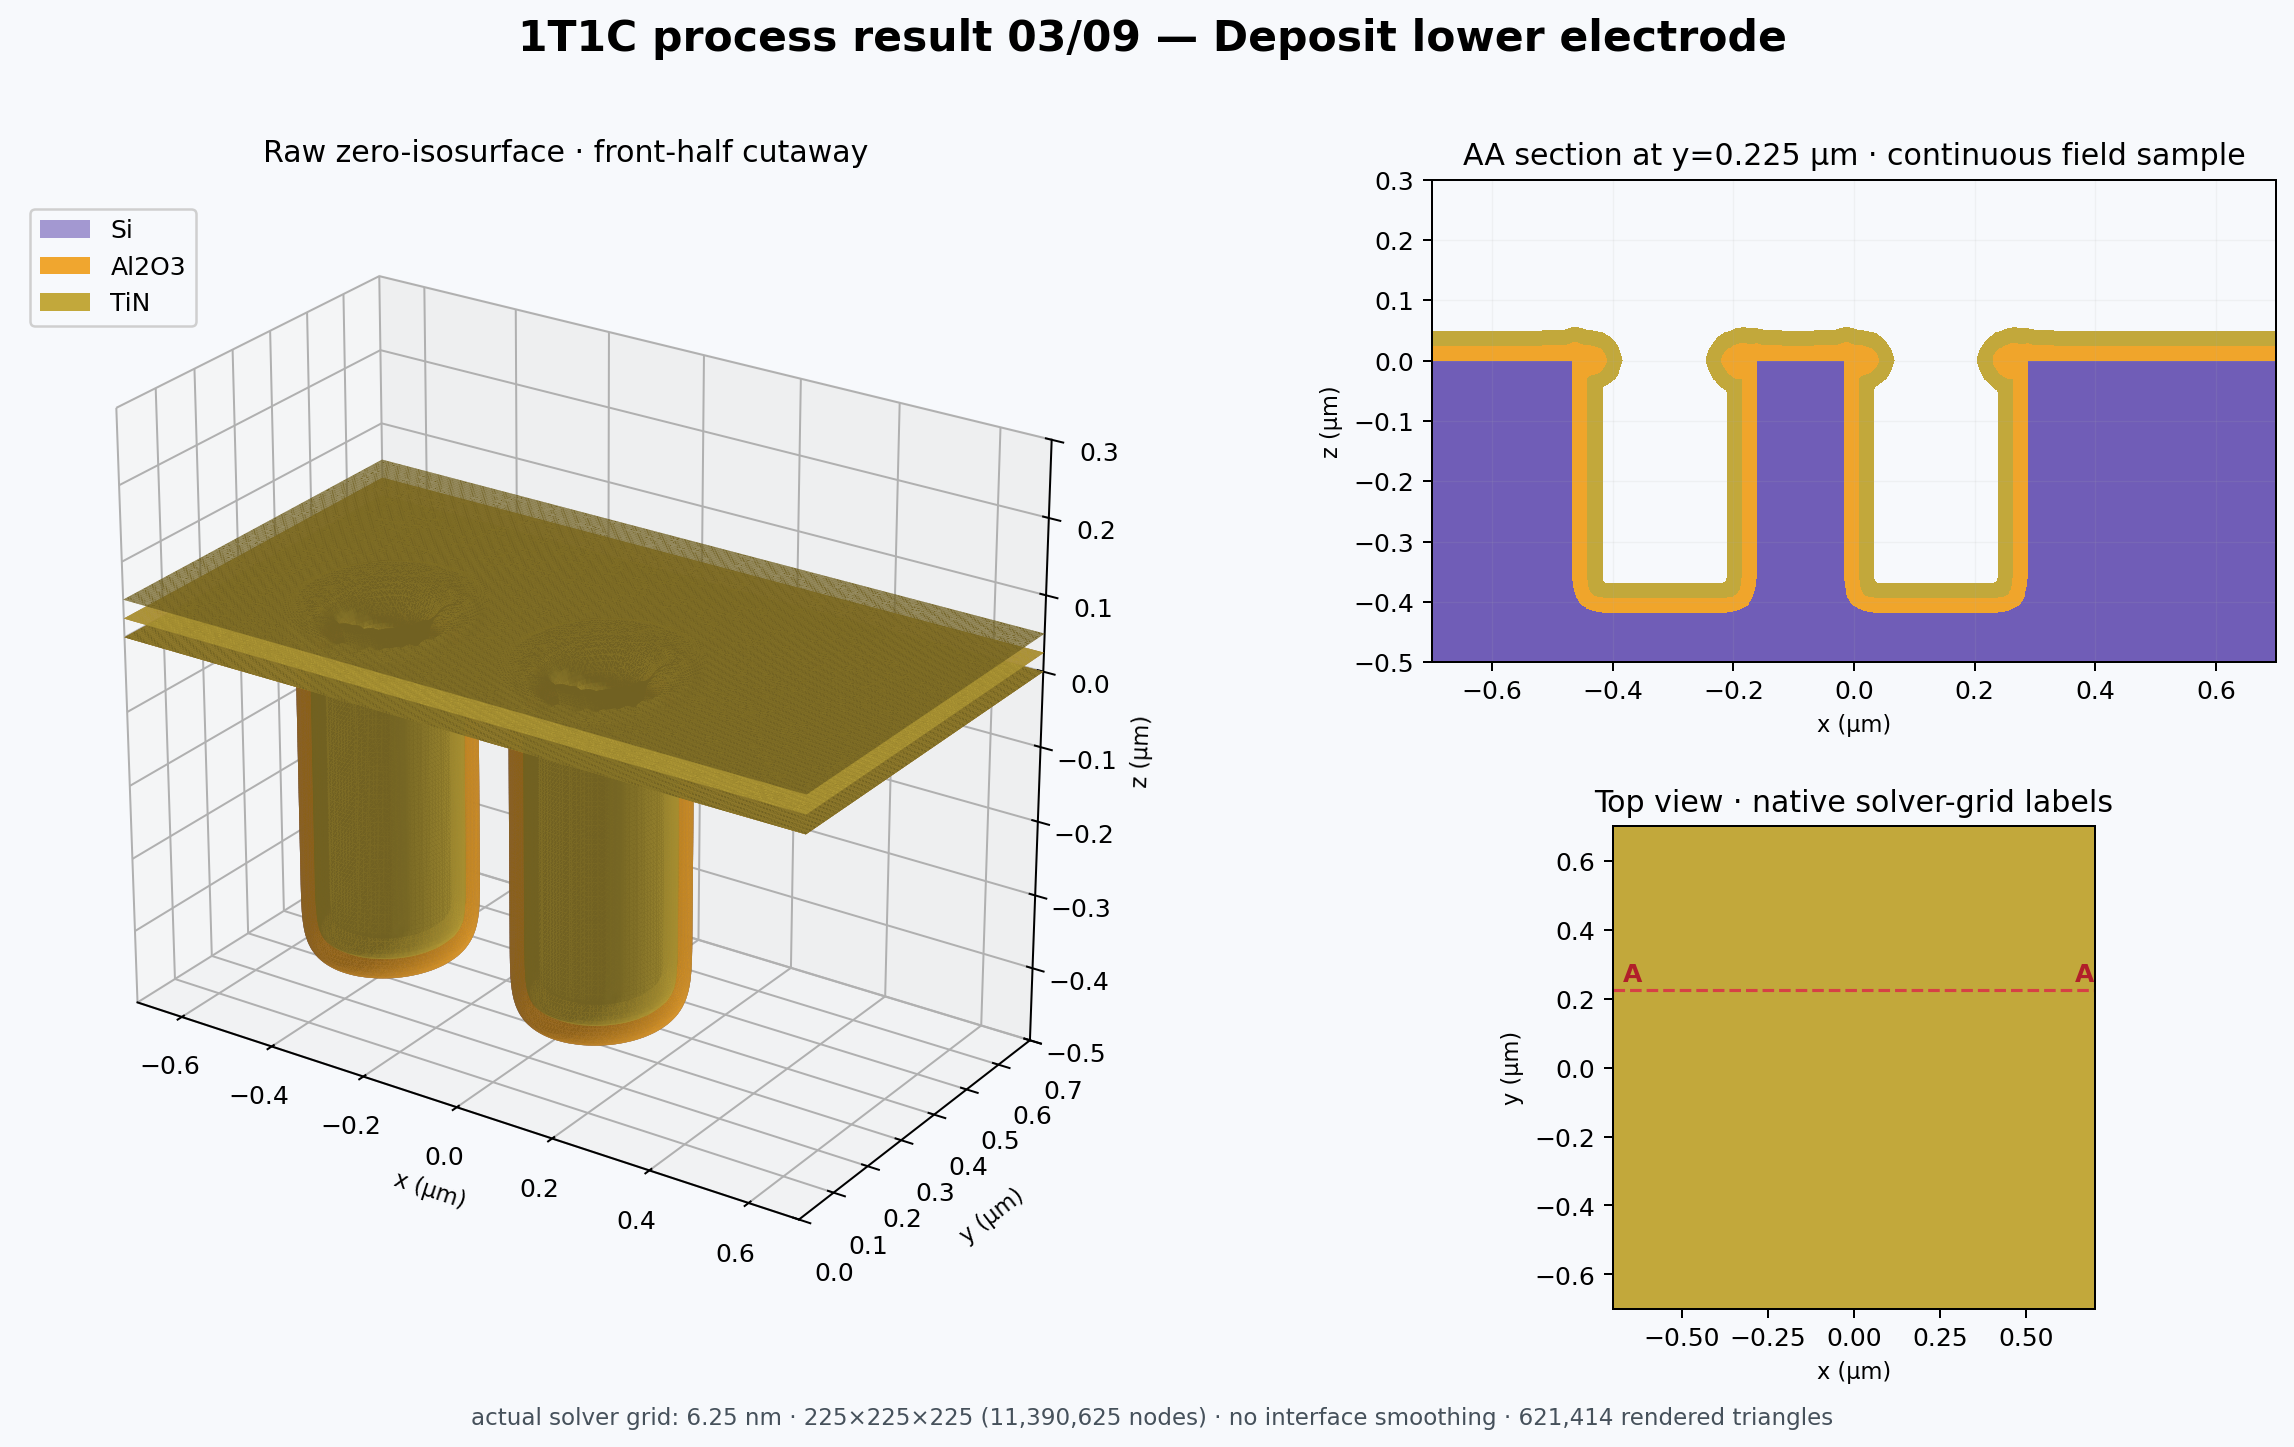
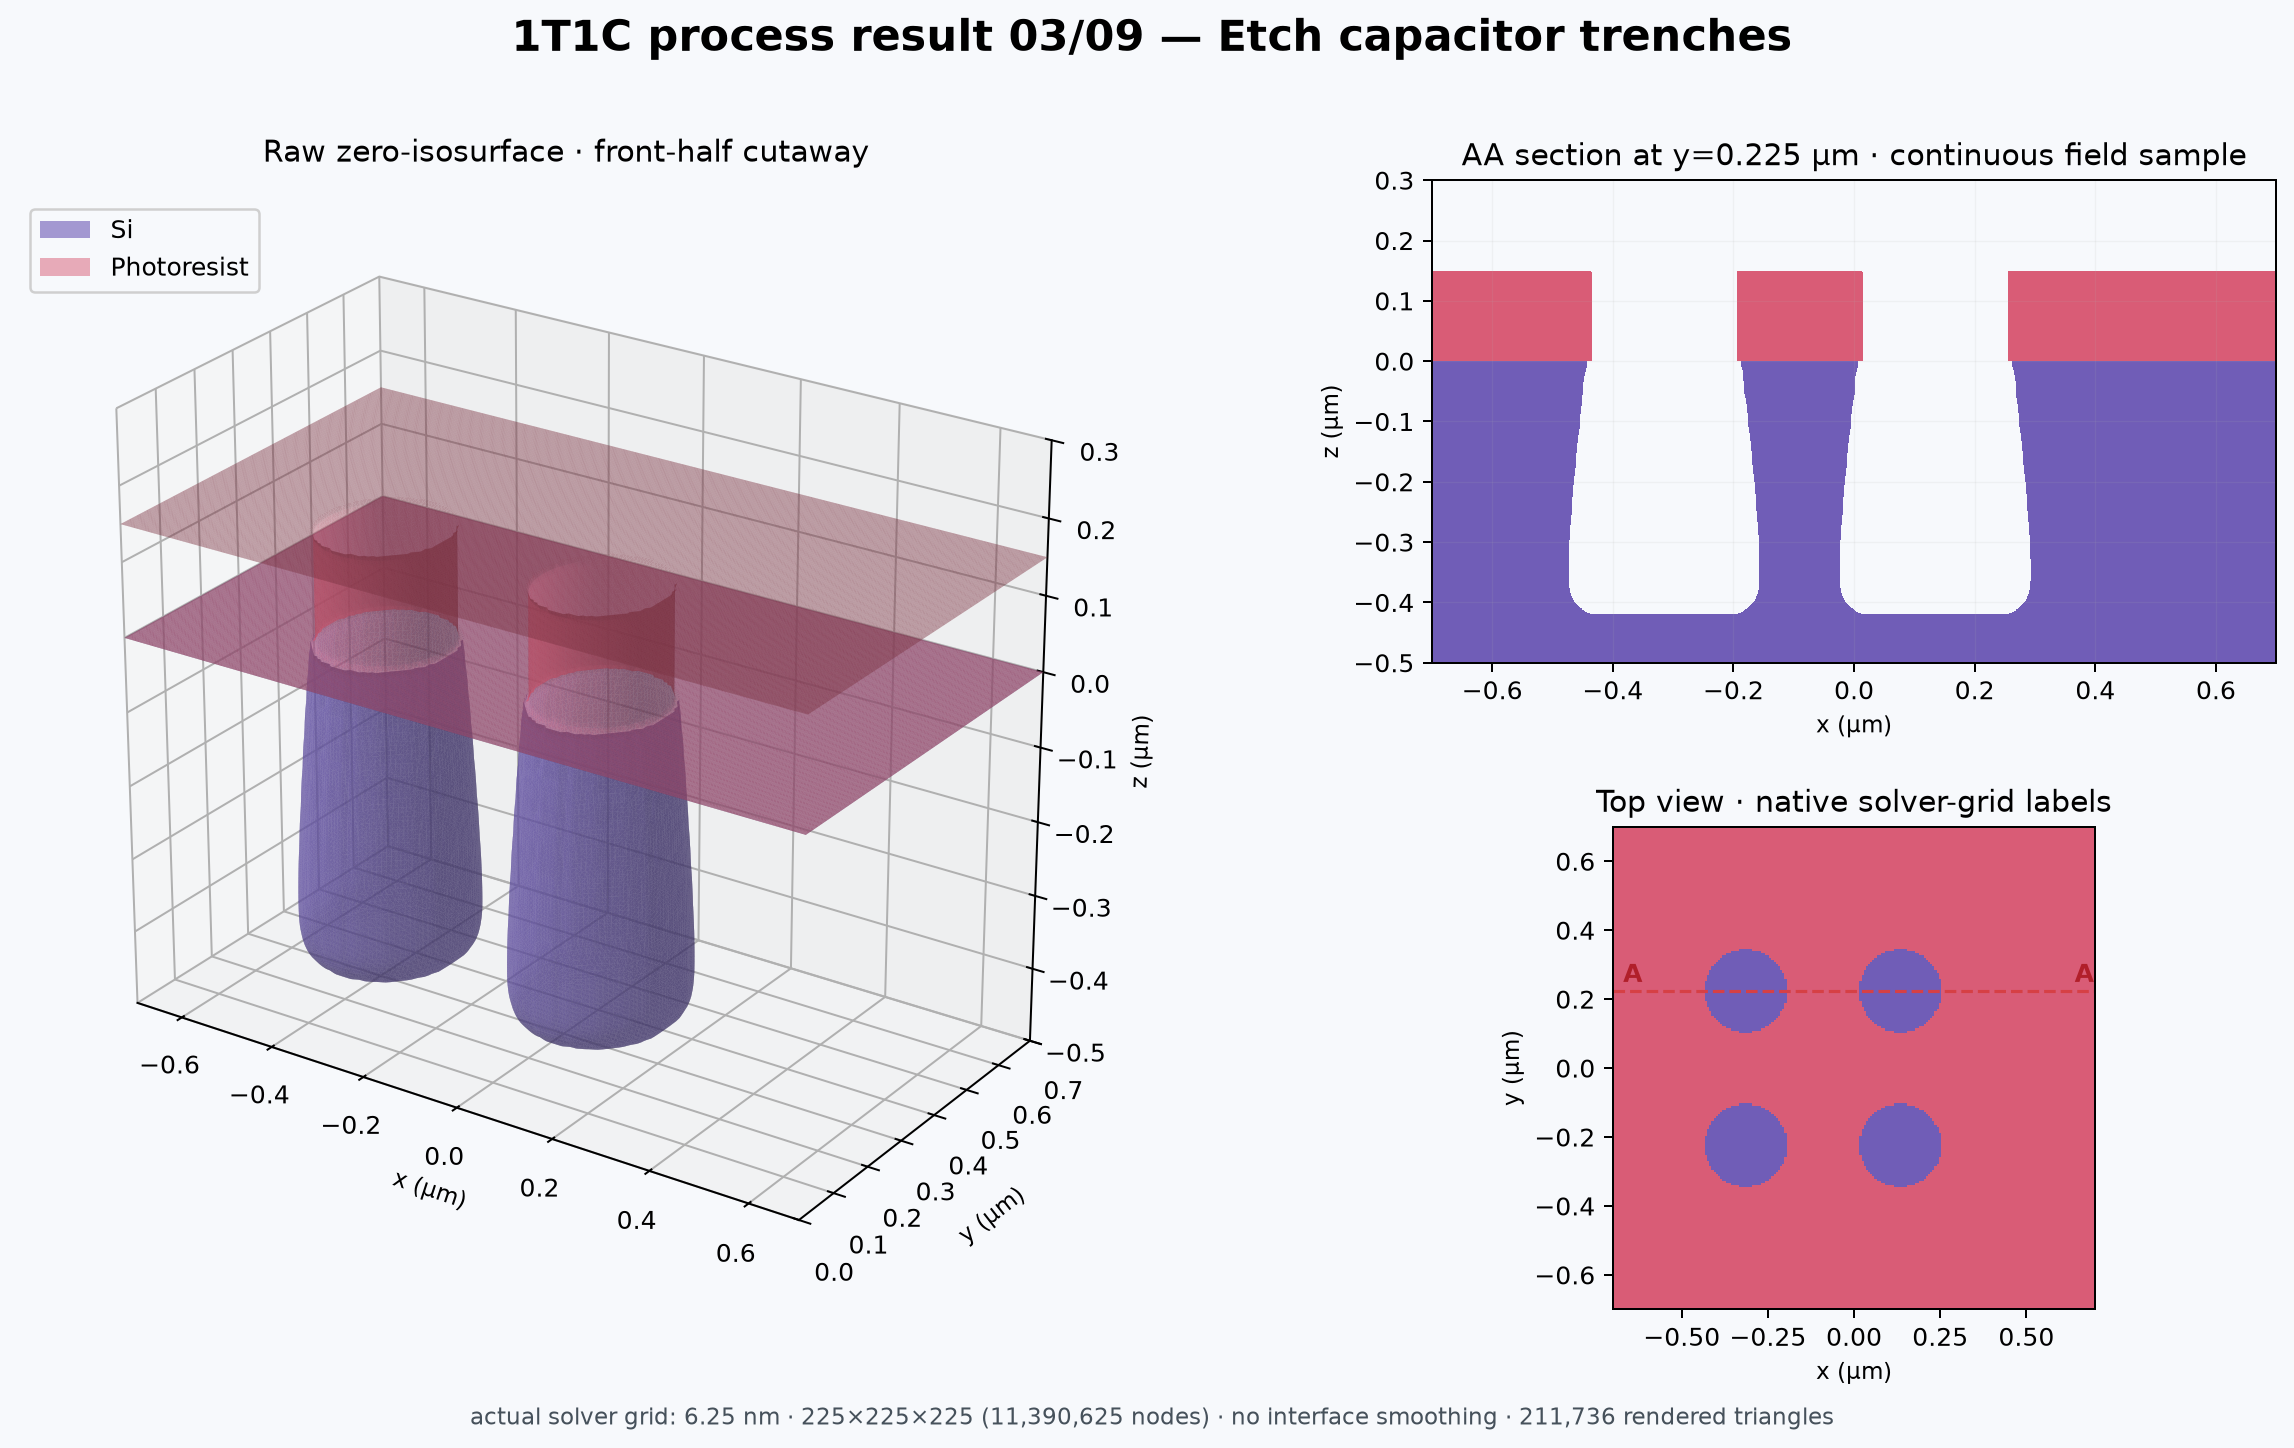
Regenerate the 1T1C step gallery for the resist-masked flow
Twelve steps at 6.25 nm, second order, replayed from the bare wafer. The
capacitor trench is now masked by a real patterned resist, so the gallery shows
the coat, develop, etch and strip that the sketch rule used to stand in for.

Measured on this run: the Al2O3 film is 25.0000 nm away from the openings with
zero spread across 37 columns, the liner is 25.00 nm on the trench floor and
sidewall, no interface node is left hanging over open space, and the strip
clears the resist completely.

The trench's remaining left-right difference is -0.84 nm here, against -3.05 nm
at 12.5 nm. It is a sampling-phase error: a mask centre that lands on a node or
exactly between two is symmetric, anything else is off by up to a third of a
cell, and it converges with the grid. The array pitch is a whole number of
cells, so all four cells share one phase and one error.

Claude-Session: https://claude.ai/code/session_016exM5cAXEJu8eN96qD7AFS

diff --git a/docs/1T1C_STEPS.md b/docs/1T1C_STEPS.md
@@ -1,72 +1,93 @@
-# 1T1C 九步结构结果
+# 1T1C 十二步结构结果
 
-这组图片从平坦 Si 衬底开始，按同一条流程连续计算一次，并在每一步结束后保存真实材料状态。全部结果使用 6.25 nm 三维均匀网格、二阶界面推进；AA 截面固定在 y=0.225 µm，视角和坐标范围保持不变，便于逐步比较。
+这组图片从平坦 Si 衬底开始，按同一条流程连续计算一次，并在每一步结束后保存真实材料状态。全部结果使用 6.25 nm 三维均匀网格（225×225×225，11,390,625 个节点）、二阶界面推进；AA 截面固定在 y=0.225 µm，视角和坐标范围保持不变，便于逐步比较。
+
+电容沟槽不再由钉在表面平面上的草图掩膜规则形成，而是由一层真实的光刻胶挡出来：涂胶、显影、隔着胶刻蚀、去胶。掩膜边缘因此是一层固体，刻蚀前沿必须绕过它的边缘。
 
 > 这是用于工艺推导和软件验证的参数化 2×2 1T1C 几何模型，不是经过晶圆厂数据标定的 TCAD 模型。图片不做轮廓镜像、补洞或几何平滑，因而会保留当前内核的离散误差和异常空隙。
 
-![九步 AA 截面对比](assets/1t1c-steps/all-steps-aa.png)
+![十二步 AA 截面对比](assets/1t1c-steps/all-steps-aa.png)
 
-## 01 电容沟槽刻蚀
+## 01 涂覆光刻胶
 
-对 Si 使用圆形 Quick Sketch 掩膜，目标深度 0.42 µm，方向性比例 0.92。该步骤建立后续保形沉积的沟槽母结构。
+在整片衬底上保形沉积 150 nm 光刻胶。这一层是真实材料，不是一条掩膜规则。
 
-![01 Etch capacitor trenches](assets/1t1c-steps/step-01.png)
+![01 Coat resist](assets/1t1c-steps/step-01.png)
 
-## 02 沉积电容介质
+## 02 显影
 
-在所有与外部空气连通的 Si 表面进行 25 nm Al2O3 等厚几何沉积，包括沟槽侧壁和底部。
+用圆形 Quick Sketch 在胶层里刻出开口，Si 作为停止层。开口左右半宽实测 120.00 nm 对 120.00 nm。
 
-![02 Deposit capacitor dielectric](assets/1t1c-steps/step-02.png)
+![02 Develop resist](assets/1t1c-steps/step-02.png)
 
-## 03 沉积下电极
+## 03 电容沟槽刻蚀
+
+整片曝光，目标深度 0.42 µm，方向性比例 0.92，光刻胶速率为零。胶挡住它下面的硅，刻蚀只在开口里向下走，8% 的各向同性分量在胶檐下形成横向内凹。
+
+![03 Etch capacitor trenches](assets/1t1c-steps/step-03.png)
+
+## 04 去胶
+
+整片曝光，只有光刻胶有速率，其余材料全部作为停止层。实测残留为零，硅一个节点都没被动过。
+
+![04 Strip resist](assets/1t1c-steps/step-04.png)
+
+## 05 沉积电容介质
+
+在所有与外部空气连通的 Si 表面进行 25 nm Al2O3 等厚几何沉积，包括沟槽侧壁和底部。远离开口的 37 列实测膜厚 25.0000 nm，极差为 0。
+
+![05 Deposit capacitor dielectric](assets/1t1c-steps/step-05.png)
+
+## 06 沉积下电极
 
 在当前暴露表面继续沉积 25 nm TiN。旧材料界面保持不动，新材料按优先级覆盖显示。
 
-![03 Deposit lower electrode](assets/1t1c-steps/step-03.png)
+![06 Deposit lower electrode](assets/1t1c-steps/step-06.png)
 
-## 04 填充电容金属
+## 07 填充电容金属
 
 以 85 nm W 保形沉积近似金属填充。当前模型允许沉积过程中发生 pinch-off，但尚未模拟同一步内封口后输运截止，因此图中保留的内部空隙需要被视作模型结果而不是自动修补对象。
 
-![04 Fill capacitor metal](assets/1t1c-steps/step-04.png)
+![07 Fill capacitor metal](assets/1t1c-steps/step-07.png)
 
-## 05 电容 CMP
+## 08 电容 CMP
 
 把 Al2O3、TiN 和 W 在 z=0 µm 以上的部分移除，以 Si 作为停止层，得到平坦化后的电容顶部。
 
-![05 Planarize capacitor](assets/1t1c-steps/step-05.png)
+![08 Planarize capacitor](assets/1t1c-steps/step-08.png)
 
-## 06 沉积层间介质
+## 09 沉积层间介质
 
 在平坦化结构上沉积 100 nm SiO2，形成后续垂直沟道和栅结构的层间介质。
 
-![06 Deposit interlayer dielectric](assets/1t1c-steps/step-06.png)
+![09 Deposit interlayer dielectric](assets/1t1c-steps/step-09.png)
 
-## 07 建立垂直沟道
+## 10 建立垂直沟道
 
 使用 channel Quick Sketch 在指定区域放置 220 nm 高的 Si 方向性柱体。当前步骤是参数化几何构造，不包含真实外延生长动力学。
 
-![07 Grow vertical channels](assets/1t1c-steps/step-07.png)
+![10 Grow vertical channels](assets/1t1c-steps/step-10.png)
 
-## 08 图形化栅介质
+## 11 图形化栅介质
 
 使用环形 Quick Sketch 放置 130 nm 高的 Al2O3 栅介质柱体，基准高度为 z=0.045 µm。当前步骤同样是几何构造，不是 ALD 输运模型。
 
-![08 Pattern gate dielectric](assets/1t1c-steps/step-08.png)
+![11 Pattern gate dielectric](assets/1t1c-steps/step-11.png)
 
-## 09 图形化 TiN 字线
+## 12 图形化 TiN 字线
 
 使用 gate Quick Sketch 放置 75 nm 高的 TiN 结构，基准高度为 z=0.075 µm，完成当前 2×2 1T1C 示范结构。
 
-![09 Pattern TiN wordlines](assets/1t1c-steps/step-09.png)
+![12 Pattern TiN wordlines](assets/1t1c-steps/step-12.png)
 
-## 数值设置
+## 数值检查
 
-- 求解范围：x/y/z 均为 −0.7…0.7 µm
-- 网格：225 × 225 × 225，共 11,390,625 个节点
-- 实际空间间距：6.25 nm
-- 混合刻蚀：二阶受限导数重建与 SSP-RK2
-- 执行分块：24 × 24 × 24；分块只控制内存与执行方式，不改变物理网格
-- 截面显示：从连续材料场采样；3D 使用原始零等值面；Top View 使用求解器原生标签
+| 项目 | 实测 |
+| --- | --- |
+| 平坦区 Al2O3 膜厚 | 25.0000 nm，极差 0 |
+| 沟槽侧壁与底部膜厚 | 25.00 nm |
+| 下方为空的界面节点 | 0 |
+| 去胶残留 | 0 |
+| 沟槽左右半宽差 | −0.84 nm（12.5 nm 网格上为 −3.05 nm） |
 
-每一步的压缩数值状态和解析后的参数保存在本地输出目录中，不放入 Git 仓库，避免把大型二进制计算数据写入源代码历史。
+沟槽的左右半宽差是采样相位误差：掩膜圆心落在节点上或两节点正中时精确为零，落在其他相位时最大约三分之一个网格，随网格加密按 h 收敛。阵列节距是网格间距的整数倍，所以四个单元的相位相同，误差也一模一样。原始数字见 [`assets/1t1c-steps/numerical-verification.json`](assets/1t1c-steps/numerical-verification.json)。

diff --git a/README.md b/README.md
@@ -123,7 +123,7 @@ python examples\render_1t1c_adaptive.py `
 
 截面从材料零界面线性插值采样，3D 网格使用原始零等值面，不删除碎片、不补洞、不移动顶点。Top View 仍是原生网格标签；细化显示或提高图片 DPI 不等于提高计算精度。旧快照、旧图片和旧 EXE 不会自动升级。
 
-同一 6.25 nm 二阶流程的九步中间结构见 [1T1C 逐步结果](docs/1T1C_STEPS.md)。这些图片由每一步保存的数值状态生成，不是从最终结构倒推。
+同一 6.25 nm 二阶流程的十二步中间结构见 [1T1C 逐步结果](docs/1T1C_STEPS.md)。这些图片由每一步保存的数值状态生成，不是从最终结构倒推。
 
 ## 验证
 
